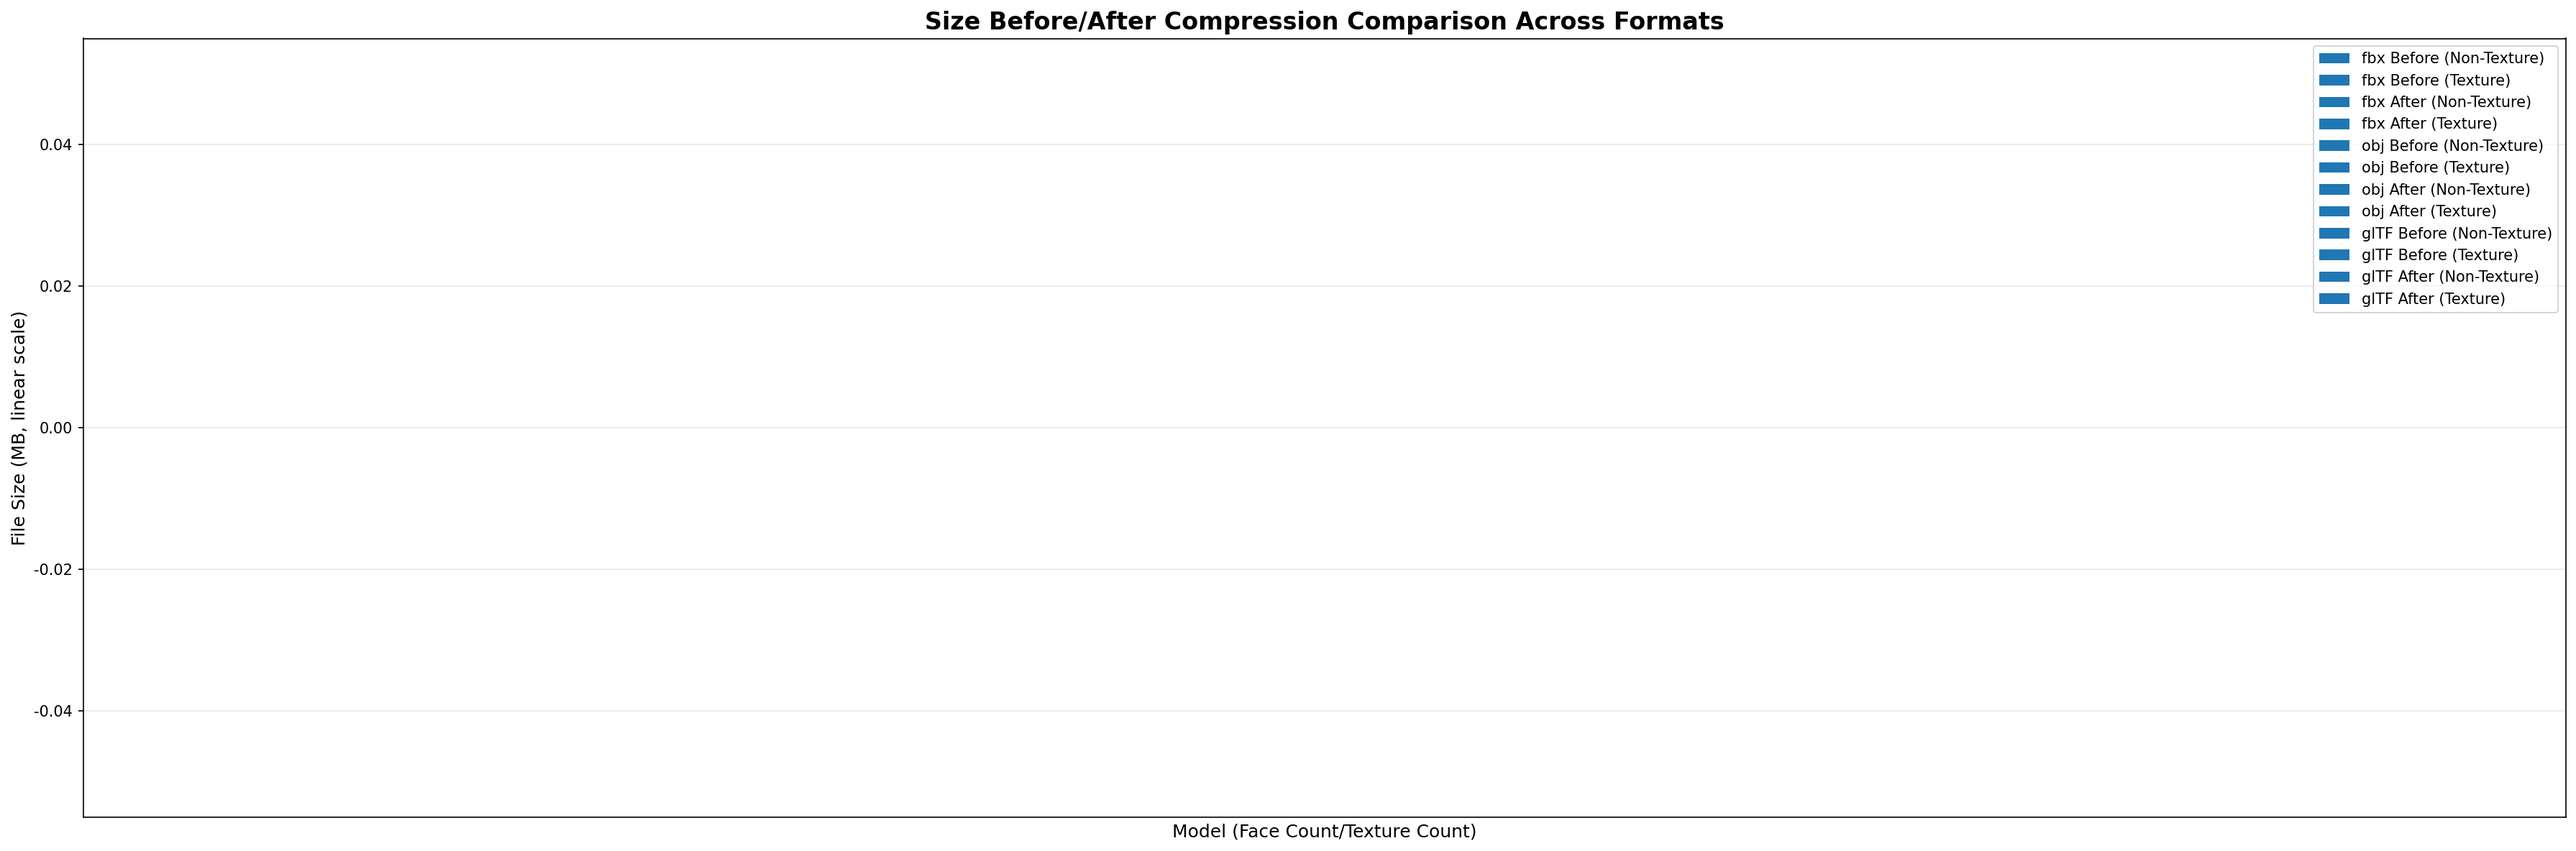
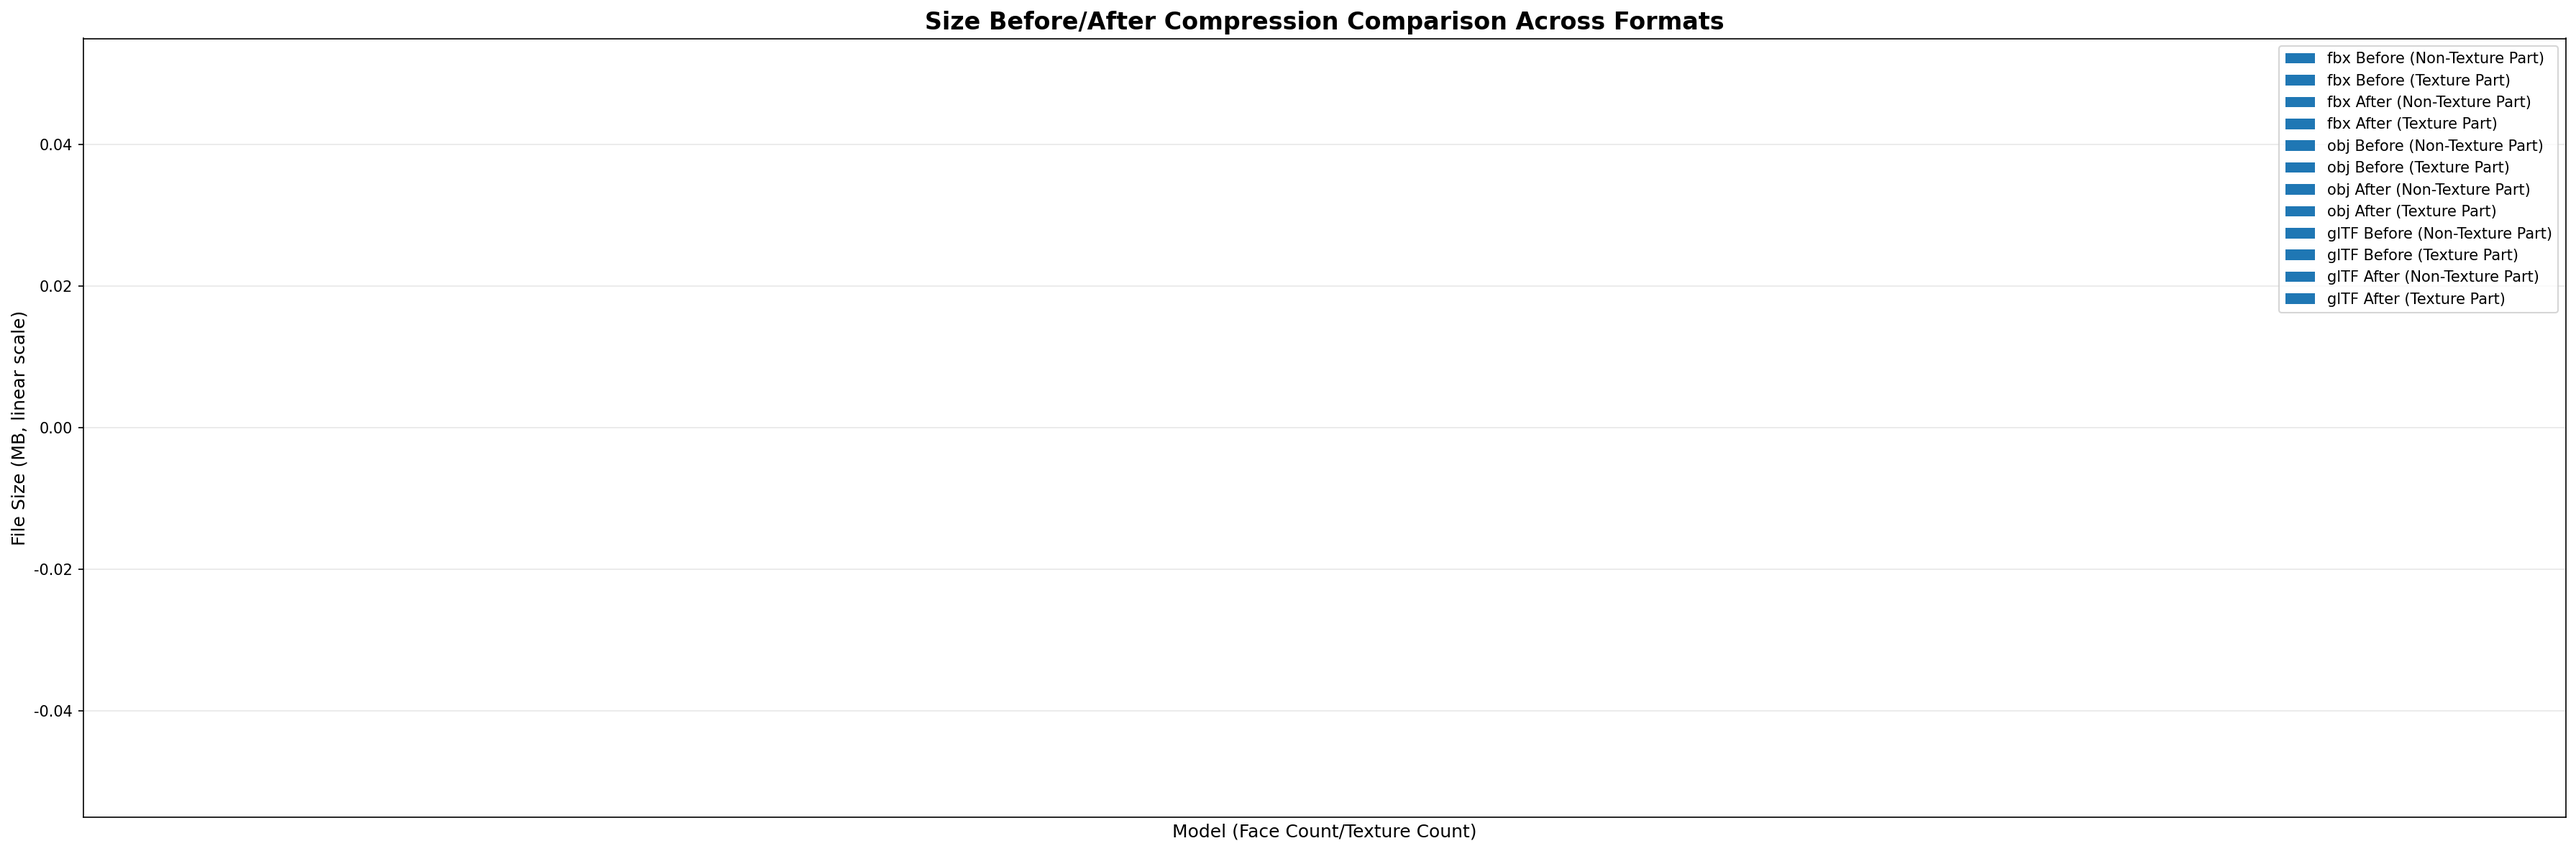
Add linear scale, tall chart for format size before/after comparison

Changed region(s): [[0.8677, 0.0625, 0.9916, 0.375]]

diff --git a/Scripts/main.py b/Scripts/main.py
@@ -1053,62 +1053,42 @@ def create_all_format_size_before_after(models_data):
     x = np.arange(len(models))
     width = 0.12
     fig, ax = plt.subplots(figsize=(max(24, len(models)*1.2), 8))
-    # 色系定义
     base_colors = plt.get_cmap('tab10').colors
     for i, fmt in enumerate(formats):
         offset = (i - 1.5) * width * 2
         before_vals = [v if v not in [None, 0] else 0 for v in data_before[fmt]]
         after_vals = [v if v not in [None, 0] else 0 for v in data_after[fmt]]
-        # 新增：获取纹理数据
         texture_before = [
-            model_data['formats'][fmt].get('textureSizeBeforeZipMB', 0) if fmt in model_data['formats'] else 0
-            for model_name, model_data in zip(models, [models_data[m] for m in models])
+            models_data[m]['formats'][fmt].get('textureSizeBeforeZipMB', 0) if fmt in models_data[m]['formats'] else 0
+            for m in models
         ]
         texture_after = [
-            model_data['formats'][fmt].get('textureSizeAfterZipMB', 0) if fmt in model_data['formats'] else 0
-            for model_name, model_data in zip(models, [models_data[m] for m in models])
+            models_data[m]['formats'][fmt].get('textureSizeAfterZipMB', 0) if fmt in models_data[m]['formats'] else 0
+            for m in models
         ]
-        # before: 主色，after: 明度降低
         color_before = base_colors[i]
         color_after = tuple(np.clip(np.array(base_colors[i]) + 0.3, 0, 1))
         color_before_texture = tuple(np.clip(np.array(base_colors[i]) * 0.7, 0, 1))
         color_after_texture = tuple(np.clip(np.array(base_colors[i]) * 0.7 + 0.3, 0, 1))
-        # 堆叠柱状图：先画非纹理部分，再画纹理部分
         non_texture_before = [max(0, v-t) for v, t in zip(before_vals, texture_before)]
-        bars1 = ax.bar(x + offset, non_texture_before, width, label=f'{fmt} Before (Non-Texture)', color=color_before, zorder=2)
-        bars1_texture = ax.bar(x + offset, texture_before, width, bottom=non_texture_before, label=f'{fmt} Before (Texture)', color=color_before_texture, zorder=3)
+        bars1 = ax.bar(x + offset, non_texture_before, width, label=f'{fmt} Before (Non-Texture Part)', color=color_before, zorder=2)
+        bars1_texture = ax.bar(x + offset, texture_before, width, bottom=non_texture_before, label=f'{fmt} Before (Texture Part)', color=color_before_texture, zorder=3)
         non_texture_after = [max(0, v-t) for v, t in zip(after_vals, texture_after)]
-        bars2 = ax.bar(x + offset + width, non_texture_after, width, label=f'{fmt} After (Non-Texture)', color=color_after, zorder=2)
-        bars2_texture = ax.bar(x + offset + width, texture_after, width, bottom=non_texture_after, label=f'{fmt} After (Texture)', color=color_after_texture, zorder=3)
+        bars2 = ax.bar(x + offset + width, non_texture_after, width, label=f'{fmt} After (Non-Texture Part)', color=color_after, zorder=2)
+        bars2_texture = ax.bar(x + offset + width, texture_after, width, bottom=non_texture_after, label=f'{fmt} After (Texture Part)', color=color_after_texture, zorder=3)
         # 标注
         for idx, (bar, v, t) in enumerate(zip(bars1, before_vals, texture_before)):
             if v is None:
                 ax.text(bar.get_x() + bar.get_width()/2., 0.5, 'Missing', ha='center', va='bottom', fontsize=7, color='red', rotation=60, zorder=4)
             elif v not in [None, 0]:
-                ax.text(bar.get_x() + bar.get_width()/2., bar.get_height(), f'{v:.1f}', ha='center', va='bottom', fontsize=7, rotation=60, zorder=4)
-                # 纹理占比
-                if t > 0 and v > 0:
-                    percent = t / v * 100
-                    txt = f'{percent:.0f}%\n{t:.1f}'
-                    if t > v * 0.18:  # 足够空间
-                        ax.text(bar.get_x() + bar.get_width()/2., bar.get_y() + bar.get_height(), txt, ha='center', va='center', fontsize=7, color='white', zorder=5)
-                    else:
-                        # 用线连到外部
-                        ax.plot([bar.get_x() + bar.get_width()/2., bar.get_x() + bar.get_width()/2. + 0.05], [bar.get_y() + bar.get_height(), bar.get_y() + bar.get_height() + max(v*0.08, 2)], color='black', lw=0.7, zorder=6)
-                        ax.text(bar.get_x() + bar.get_width()/2. + 0.08, bar.get_y() + bar.get_height() + max(v*0.08, 2), txt, ha='left', va='bottom', fontsize=7, color='black', zorder=6)
+                # 标注总和在最顶端
+                ax.text(bar.get_x() + bar.get_width()/2., bar.get_height() + bars1_texture[idx].get_height(), f'{v:.1f}', ha='center', va='bottom', fontsize=7, rotation=60, zorder=4)
         for idx, (bar, v, t) in enumerate(zip(bars2, after_vals, texture_after)):
             if v is None:
                 ax.text(bar.get_x() + bar.get_width()/2., 0.5, 'Missing', ha='center', va='bottom', fontsize=7, color='red', rotation=60, zorder=4)
             elif v not in [None, 0]:
-                ax.text(bar.get_x() + bar.get_width()/2., bar.get_height(), f'{v:.1f}', ha='center', va='bottom', fontsize=7, rotation=60, zorder=4)
-                if t > 0 and v > 0:
-                    percent = t / v * 100
-                    txt = f'{percent:.0f}%\n{t:.1f}'
-                    if t > v * 0.18:
-                        ax.text(bar.get_x() + bar.get_width()/2., bar.get_y() + bar.get_height(), txt, ha='center', va='center', fontsize=7, color='white', zorder=5)
-                    else:
-                        ax.plot([bar.get_x() + bar.get_width()/2., bar.get_x() + bar.get_width()/2. + 0.05], [bar.get_y() + bar.get_height(), bar.get_y() + bar.get_height() + max(v*0.08, 2)], color='black', lw=0.7, zorder=6)
-                        ax.text(bar.get_x() + bar.get_width()/2. + 0.08, bar.get_y() + bar.get_height() + max(v*0.08, 2), txt, ha='left', va='bottom', fontsize=7, color='black', zorder=6)
+                # 标注总和在最顶端
+                ax.text(bar.get_x() + bar.get_width()/2., bar.get_height() + bars2_texture[idx].get_height(), f'{v:.1f}', ha='center', va='bottom', fontsize=7, rotation=60, zorder=4)
     all_values = []
     for fmt in formats:
         all_values += [v for v in data_before[fmt] if v not in [None, 0]]
@@ -1128,6 +1108,84 @@ def create_all_format_size_before_after(models_data):
     plt.tight_layout()
     save_plot_as_html(fig, 'Charts/all_format_size_before_after.html', 'Size Before/After Compression Comparison Across Formats', 'Comparison of file size before/after compression for each format (log scale, missing data marked)')
     fig.savefig('Charts/all_format_size_before_after.png', dpi=150, bbox_inches='tight')
+
+# 新增：线性坐标大高图
+
+def create_all_format_size_before_after_linear(models_data):
+    """生成线性坐标且高度加大的Size Before/After Compression分组柱状图"""
+    formats = ['fbx', 'obj', 'glTF']
+    models = []
+    face_counts = []
+    texture_counts = []
+    data_before = {fmt: [] for fmt in formats}
+    data_after = {fmt: [] for fmt in formats}
+    for model_name, model_data in models_data.items():
+        has_data = any(fmt in model_data['formats'] and (
+            model_data['formats'][fmt].get('size_before_mb', None) not in [None, 0] or
+            model_data['formats'][fmt].get('size_after_mb', None) not in [None, 0]) for fmt in formats)
+        if has_data:
+            models.append(model_name)
+            face_counts.append(model_data['face_count_k'])
+            texture_counts.append(model_data['texture_count'])
+            for fmt in formats:
+                if fmt in model_data['formats']:
+                    data_before[fmt].append(model_data['formats'][fmt].get('size_before_mb', None))
+                    data_after[fmt].append(model_data['formats'][fmt].get('size_after_mb', None))
+                else:
+                    data_before[fmt].append(None)
+                    data_after[fmt].append(None)
+    models, face_counts, texture_counts, keep_indices = filter_models_by_nonempty(models_data, data_before, models, face_counts)
+    for fmt in formats:
+        data_before[fmt] = [data_before[fmt][i] for i in keep_indices]
+        data_after[fmt] = [data_after[fmt][i] for i in keep_indices]
+    x = np.arange(len(models))
+    width = 0.12
+    fig, ax = plt.subplots(figsize=(max(24, len(models)*1.2), 32))  # 高度大幅提升
+    base_colors = plt.get_cmap('tab10').colors
+    for i, fmt in enumerate(formats):
+        offset = (i - 1.5) * width * 2
+        before_vals = [v if v not in [None, 0] else 0 for v in data_before[fmt]]
+        after_vals = [v if v not in [None, 0] else 0 for v in data_after[fmt]]
+        texture_before = [
+            models_data[m]['formats'][fmt].get('textureSizeBeforeZipMB', 0) if fmt in models_data[m]['formats'] else 0
+            for m in models
+        ]
+        texture_after = [
+            models_data[m]['formats'][fmt].get('textureSizeAfterZipMB', 0) if fmt in models_data[m]['formats'] else 0
+            for m in models
+        ]
+        color_before = base_colors[i]
+        color_after = tuple(np.clip(np.array(base_colors[i]) + 0.3, 0, 1))
+        color_before_texture = tuple(np.clip(np.array(base_colors[i]) * 0.7, 0, 1))
+        color_after_texture = tuple(np.clip(np.array(base_colors[i]) * 0.7 + 0.3, 0, 1))
+        non_texture_before = [max(0, v-t) for v, t in zip(before_vals, texture_before)]
+        bars1 = ax.bar(x + offset, non_texture_before, width, label=f'{fmt} Before (Non-Texture Part)', color=color_before, zorder=2)
+        bars1_texture = ax.bar(x + offset, texture_before, width, bottom=non_texture_before, label=f'{fmt} Before (Texture Part)', color=color_before_texture, zorder=3)
+        non_texture_after = [max(0, v-t) for v, t in zip(after_vals, texture_after)]
+        bars2 = ax.bar(x + offset + width, non_texture_after, width, label=f'{fmt} After (Non-Texture Part)', color=color_after, zorder=2)
+        bars2_texture = ax.bar(x + offset + width, texture_after, width, bottom=non_texture_after, label=f'{fmt} After (Texture Part)', color=color_after_texture, zorder=3)
+        for idx, (bar, v, t) in enumerate(zip(bars1, before_vals, texture_before)):
+            if v is None:
+                ax.text(bar.get_x() + bar.get_width()/2., 0.5, 'Missing', ha='center', va='bottom', fontsize=7, color='red', rotation=60, zorder=4)
+            elif v not in [None, 0]:
+                ax.text(bar.get_x() + bar.get_width()/2., bar.get_height() + bars1_texture[idx].get_height(), f'{v:.1f}', ha='center', va='bottom', fontsize=7, rotation=60, zorder=4)
+        for idx, (bar, v, t) in enumerate(zip(bars2, after_vals, texture_after)):
+            if v is None:
+                ax.text(bar.get_x() + bar.get_width()/2., 0.5, 'Missing', ha='center', va='bottom', fontsize=7, color='red', rotation=60, zorder=4)
+            elif v not in [None, 0]:
+                ax.text(bar.get_x() + bar.get_width()/2., bar.get_height() + bars2_texture[idx].get_height(), f'{v:.1f}', ha='center', va='bottom', fontsize=7, rotation=60, zorder=4)
+    ax.set_xlabel('Model (Face Count/Texture Count)', fontsize=12)
+    ax.set_ylabel('File Size (MB, linear scale)', fontsize=12)
+    ax.set_title('Size Before/After Compression Comparison Across Formats (Linear, Tall)', fontsize=16, fontweight='bold')
+    ax.set_xticks(x)
+    labels = [get_standardized_model_name(m, f, t) for m, f, t in zip(models, face_counts, texture_counts)]
+    ax.set_xticklabels(labels, rotation=45, ha='right')
+    ax.legend()
+    ax.grid(True, alpha=0.3, which='both', zorder=1)
+    # 不使用对数坐标
+    plt.tight_layout()
+    save_plot_as_html(fig, 'Charts/all_format_size_before_after_linear.html', 'Size Before/After Compression Comparison Across Formats (Linear, Tall)', 'Comparison of file size before/after compression for each format (linear scale, tall, missing data marked)')
+    fig.savefig('Charts/all_format_size_before_after_linear.png', dpi=150, bbox_inches='tight')
 
 # 2. 单独输出Peak Memory Usage
 
@@ -1280,6 +1338,8 @@ def main():
     create_all_format_size_after(models_data)
     print("\nGenerating all-format size before/after comparison report...")
     create_all_format_size_before_after(models_data)
+    print("\nGenerating all-format size before/after (linear, tall) comparison report...")
+    create_all_format_size_before_after_linear(models_data)
     print("\nGenerating peak memory usage report...")
     create_peak_memory_usage(models_data)
     print("\nGenerating summary report...")
